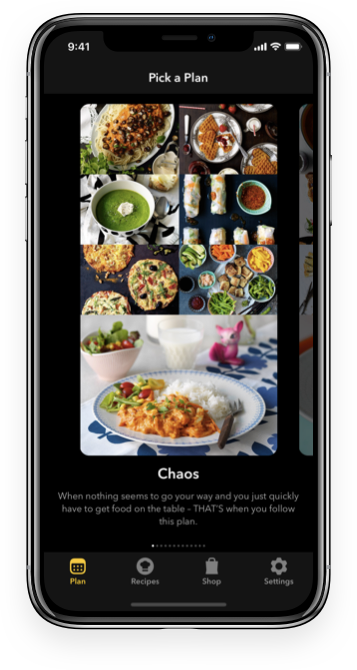
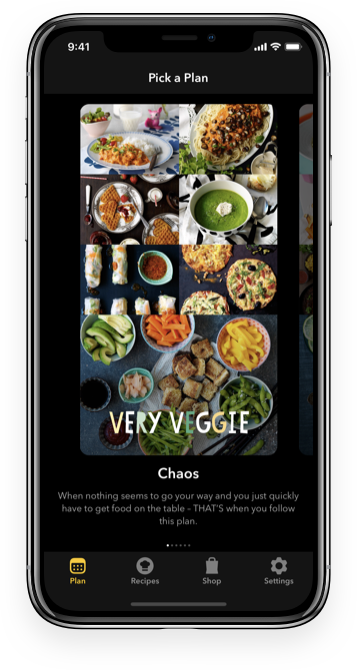
Add additional iphones. Layout, copy changes.

diff --git a/index.html b/index.html
@@ -2,7 +2,7 @@
 <html lang="en">
   <head>
     <meta charset="utf-8">
-    <title>Lita — Plan, shop, cook healthy with ease</title>
+    <title>Lita - Vegetarian Recipe Planner</title>
     <link rel="stylesheet" href="styles.css">
   </head>
   <body>
@@ -22,9 +22,7 @@
         <span class="vignette">The problem</span>
         <h2>What's for dinner?</h2>
         <p>
-          Lita solves a problem that families stress about. Plan a week full of delicious dinners with a tap or get daily
-          inspiration. Shopping groceries becomes a breeze with the ready-made shopping list. Cooking is a delight with
-          the exclusive recipes and presentation.
+          Lita solves a problem that families stress about. Plan a week full of delicious dinners with a tap. Breeze through grocery shopping with the ready-made shopping list. Achieve cooking delight with the exclusive recipes and great presentation.
         </p>
       </div>
     </section>
@@ -33,14 +31,14 @@
       <div class="content">
         <h2>Plan your meals</h2>
         <p>
-          Planning your meals helps you save time and money. And by making a concious choice of what to eat for dinner
+          Planning your meals helps you save time and money. And by making a conscious choice of what to eat for dinner
           for the coming week, you’ll also eat healthier.
         </p>
       </div>
       <div class="screenshot">
         <img src="gfx/iphonePlan.png"
              alt="Planning a weekly meal plan in Lita"
-             srcset="gfx/iphonePlan@2x.png 2x, gfx/iphonePLan@3x.png 3x">
+             srcset="gfx/iphonePlan@2x.png 2x, gfx/iphonePlan@3x.png 3x">
       </div>
     </section>
 
@@ -48,13 +46,13 @@
       <div class="content">
         <h2>Shop groceries</h2>
         <p>
-          Use the ready-made grocery list to make shopping for the week a breeze.
+          Breeze through grocery shopping with the ready-made shopping list.
         </p>
       </div>
       <div class="screenshot">
-        <img src="gfx/iphonePlan.png"
+        <img src="gfx/iphoneShop.png"
              alt="Planning a weekly meal plan in Lita"
-             srcset="gfx/iphonePlan@2x.png 2x, gfx/iphonePLan@3x.png 3x">
+             srcset="gfx/iphoneShop@2x.png 2x, gfx/iphoneShop@3x.png 3x">
       </div>
     </section>
 
@@ -66,9 +64,9 @@
         </p>
       </div>
       <div class="screenshot">
-        <img src="gfx/iphonePlan.png"
+        <img src="gfx/iphoneCook.png"
              alt="Planning a weekly meal plan in Lita"
-             srcset="gfx/iphonePlan@2x.png 2x, gfx/iphonePLan@3x.png 3x">
+             srcset="gfx/iphoneCook@2x.png 2x, gfx/iphoneCook@3x.png 3x">
       </div>
     </section>
 
@@ -76,14 +74,14 @@
       <div class="content">
         <h2>Exclusive content</h2>
         <p>
-          In Lita you'll find recipes you won't find anywhere else. We've partnered with the most ingredibel chefs to
+          In Lita you'll find recipes you won't find anywhere else. We've partnered with the most ingredible chefs to
           bring you a first class cooking experience.
         </p>
       </div>
       <div class="screenshot">
-        <img src="gfx/iphonePlan.png"
+        <img src="gfx/iphoneExclusive.png"
              alt="Planning a weekly meal plan in Lita"
-             srcset="gfx/iphonePlan@2x.png 2x, gfx/iphonePLan@3x.png 3x">
+             srcset="gfx/iphoneExclusive@2x.png 2x, gfx/iphoneExclusive@3x.png 3x">
       </div>
     </section>
 
@@ -91,14 +89,13 @@
       <div class="content">
         <h2>Lita Premium</h2>
         <p>
-          Lita is free to download and use. Upgrade to Lita Premium when you get a test for more and get full access at
-          a great value.
+          Lita is free to download and use.<br>Got a taste for more? Go Premium and get full access at a great value.
         </p>
       </div>
       <div class="screenshot">
-        <img src="gfx/iphonePlan.png"
+        <img src="gfx/iphonePremium.png"
              alt="Planning a weekly meal plan in Lita"
-             srcset="gfx/iphonePlan@2x.png 2x, gfx/iphonePLan@3x.png 3x">
+             srcset="gfx/iphonePremium@2x.png 2x, gfx/iphonePremium@3x.png 3x">
       </div>
     </section>
 

diff --git a/styles.css b/styles.css
@@ -26,7 +26,7 @@ section {
 }
 
 section > .content {
-  max-width: 22rem;
+  max-width: 24rem;
   margin: auto;
   margin-right: 14rem;
   margin-left: 0;
@@ -75,7 +75,7 @@ section:nth-child(even) > .content {
 }
 
 #problem-intro h2 {
-  margin: 1rem 0 1.5rem 0;
+  margin: 1rem 0 0 0;
 }
 
 #plan-intro, #exclusive-content-intro {
@@ -127,7 +127,7 @@ footer p, a {
 
 h2, p {
   margin: 0;
-  padding: 0;
+  padding: 0 0 1.2rem 0;
 }
 
 h2 {
@@ -135,12 +135,14 @@ h2 {
 }
 
 p {
-  font: normal 1.2rem "AvenirNext-Medium", Helvetica, sans-serif;
+  font: normal 1.125rem "AvenirNext-Regular", Helvetica, sans-serif;
   margin-bottom: 1rem;
+  line-height: 1.7rem;
 }
 
 .vignette {
-  font: normal 1.5rem "Avenir-Roman", Helvetica, sans-serif;
+  font: normal 1rem "Avenir-Roman", Helvetica, sans-serif;
+  text-transform: uppercase;
   opacity: 0.7;
 }
 
